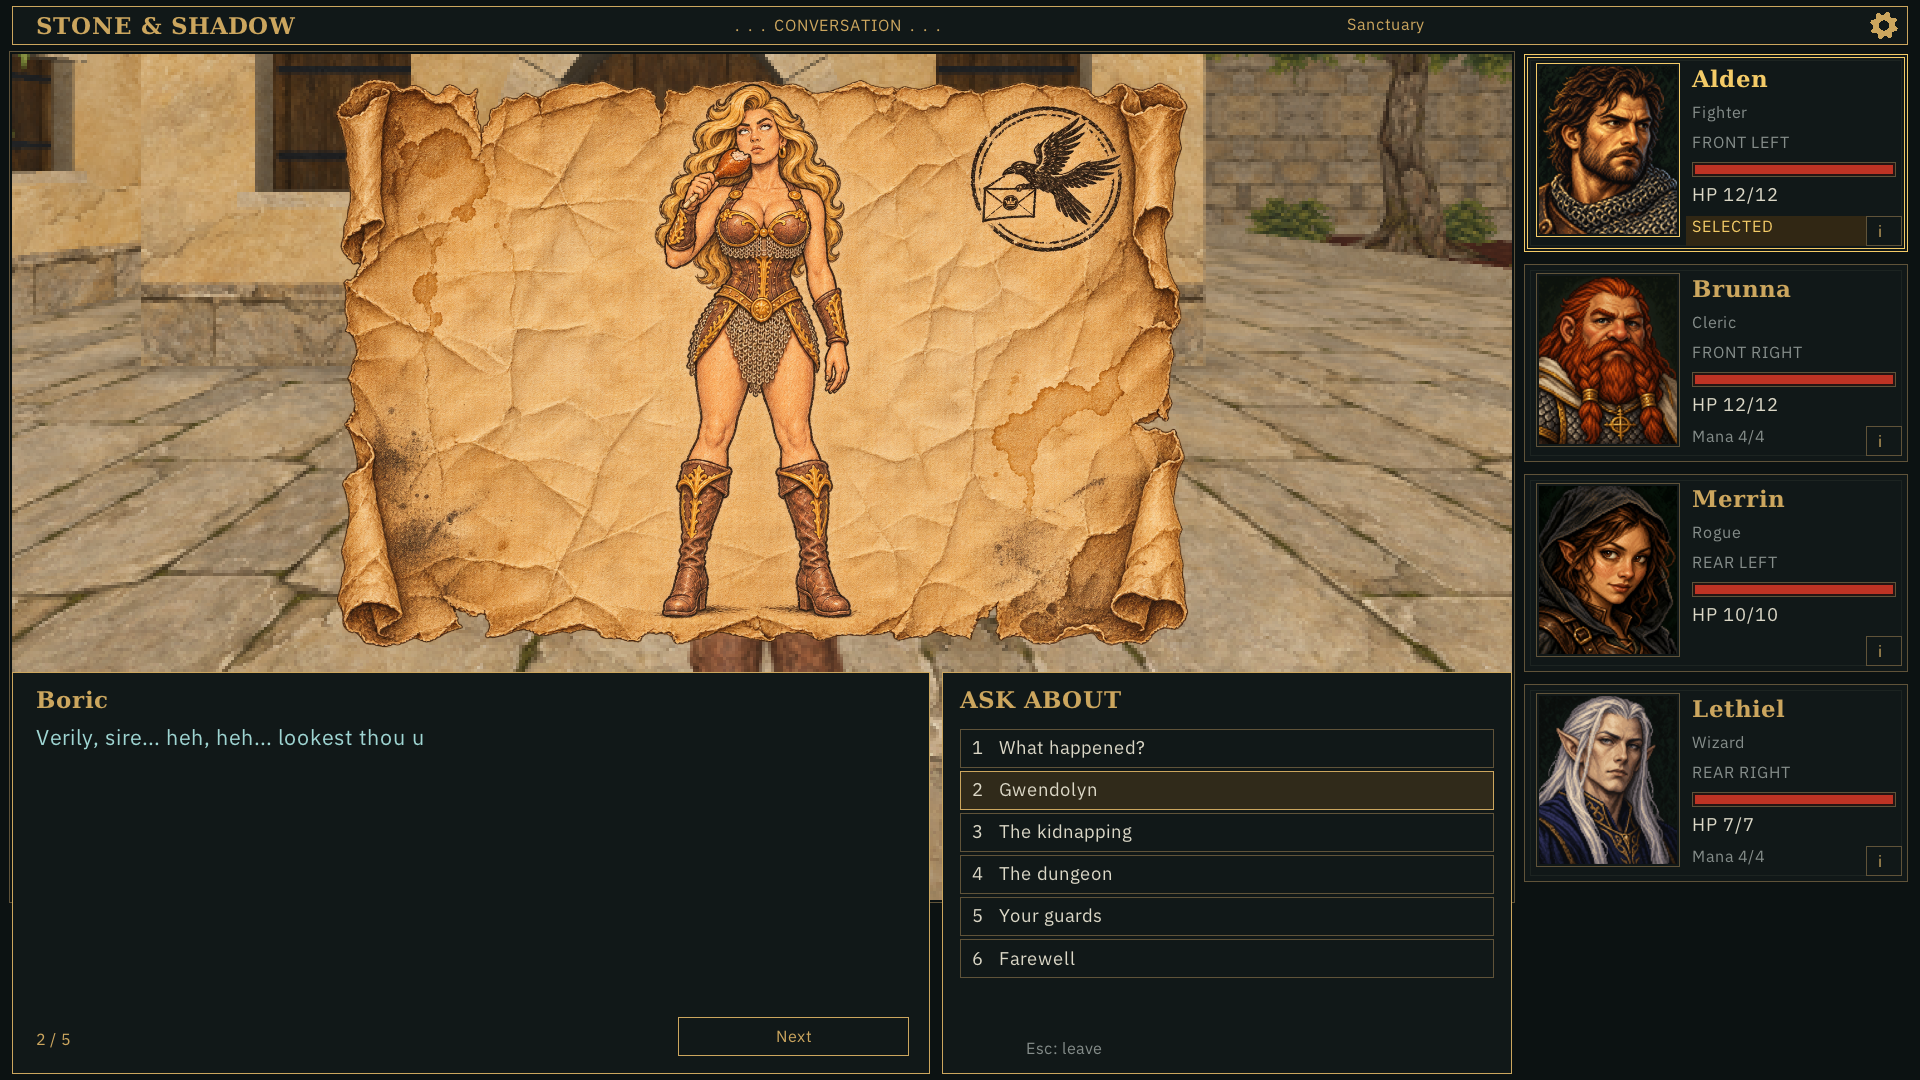
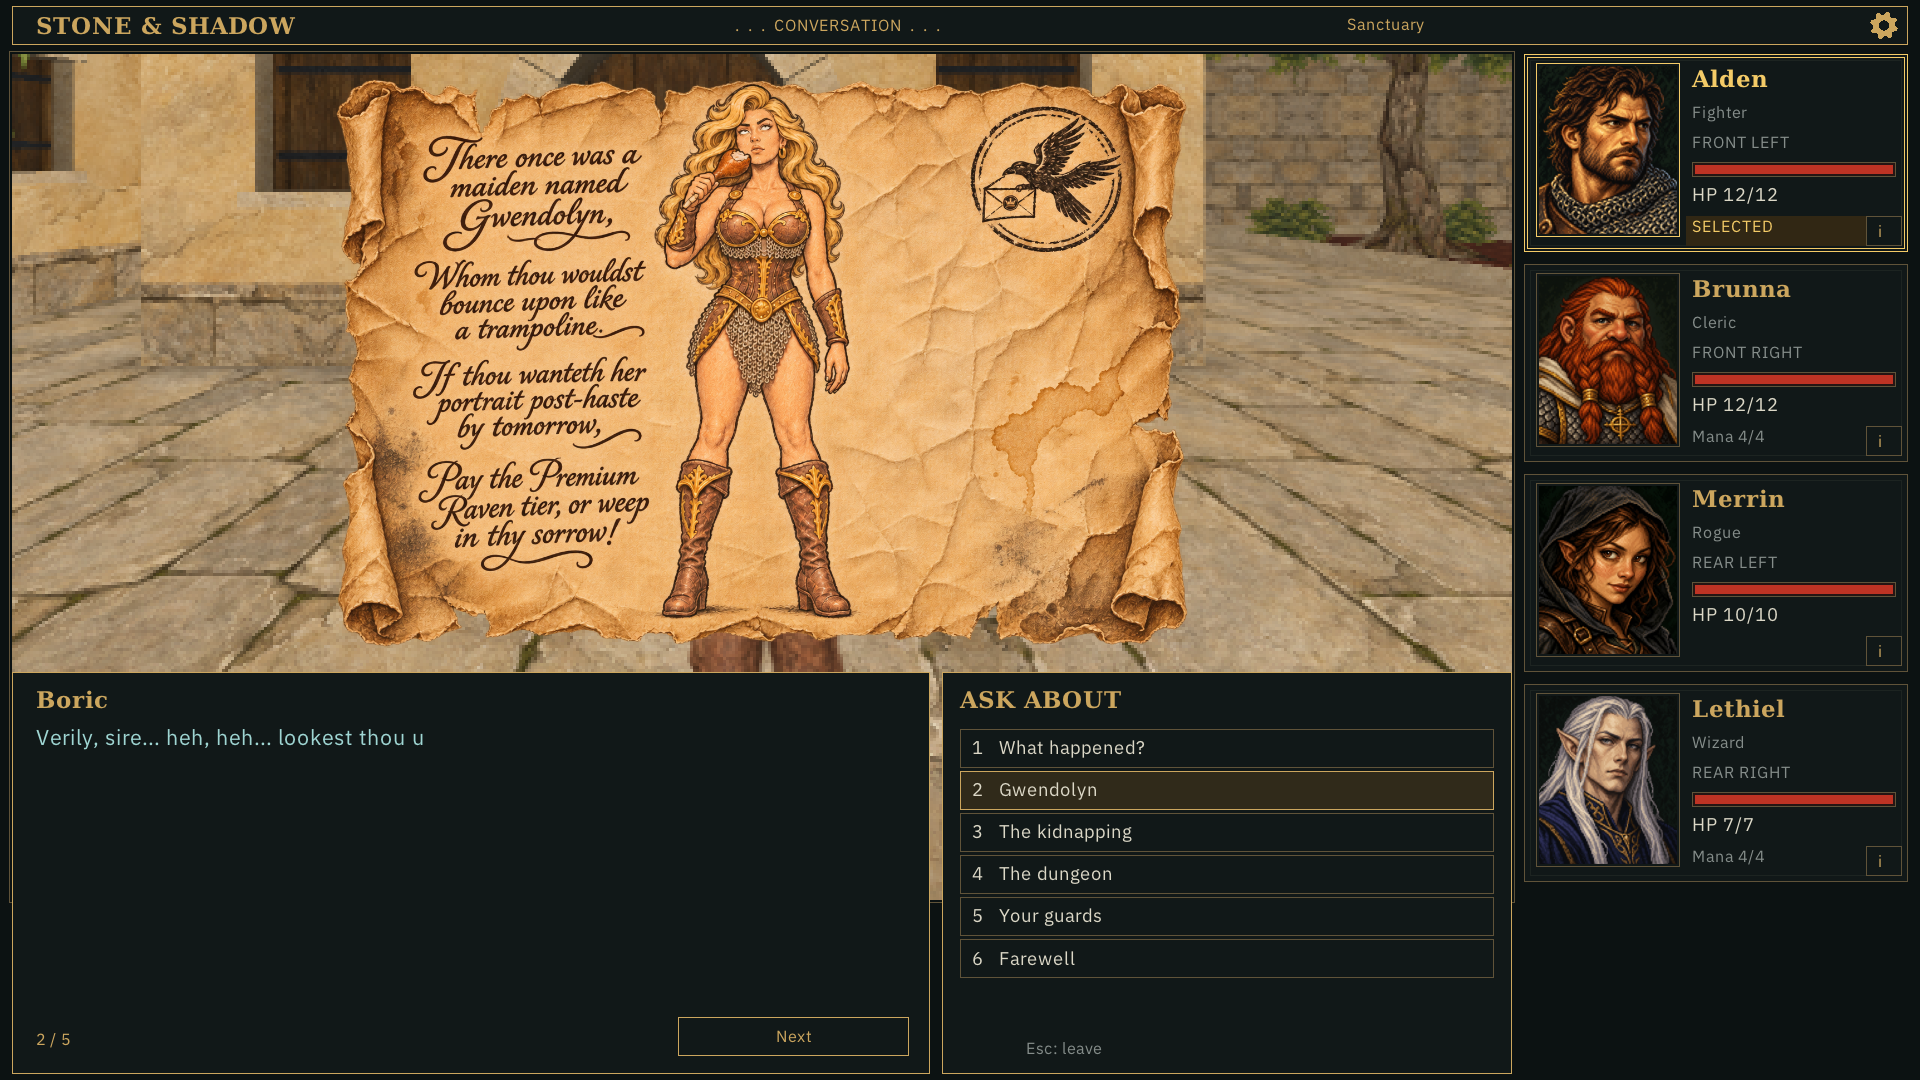
dialogue

diff --git a/docs/dialogue_design.md b/docs/dialogue_design.md
@@ -572,3 +572,34 @@ successful run uses the current 700 ms overlay delay and 300/400 ms guard pans.
 Source/package YAML match and diff whitespace checks pass. Unchanged audio, GPU
 lifecycle suites and broader configuration matrix were not rerun. Disposable
 captures and logs were cleaned after evidence promotion; no diagnostics retained.
+
+### Parchment verse artwork edit
+
+Implemented and visually checked (2026-11-06), pending user review: replaced the existing prepared overlay PNG with an
+imagegen edit adding the user's four-line verse in readable handwritten ink in
+the empty parchment area left of Gwendolyn. Preserve portrait identity, costume,
+pose, raven stamp, parchment silhouette and transparent alpha. Keep the existing
+asset path, YAML cues and renderer; this is a content-only change within the
+existing prepared-overlay design. Retain the exact edit prompt with provenance.
+Verify spelling visually and PNG dimensions/alpha, then update the packaged asset
+and selected in-game evidence if the hidden capture runner is available.
+
+Verification: built-in imagegen edit inspected for verbatim wording, readable
+calligraphy, portrait/stamp continuity and clean alpha. The PNG remains
+1536×1024 RGBA, with transparent exterior pixels, within the existing limits.
+`cmake --build --preset release --target blobber_assets -j2` passes at low priority;
+source and packaged PNGs match. The existing hidden production `dialogue-beats`
+scenario passes, including overlay delay/dismissal and resource release. Its scroll
+close-up was visually inspected at 1920×1080 and replaces the matching gallery
+image (still six images). No code changed; CPU suites were not rerun for this
+artwork-only edit. Disposable capture/log output cleaned after promotion; original
+generated output remains at the image tool's managed location.
+
+### Authored punctuation repair (2026-11-07)
+
+Replaced the single Unicode em dash in the Mayor kidnapping speech with ASCII
+` -- ` to satisfy the existing printable-ASCII dialogue contract. Wording and
+other authored edits are preserved. Both current dialogue YAML files parse and
+pass a printable-ASCII scan. The Debug `blobber_assets` target succeeds at two
+low-priority workers; packaged mayor YAML matches source. No engine changes or
+interactive Continue check; this is a content-only repair. Owned build log cleaned.

diff --git a/docs/screenshots/onlyscrolls/README.md b/docs/screenshots/onlyscrolls/README.md
@@ -13,6 +13,8 @@ scripted inputs without desktop input/focus automation.
 1. [Boric holds up the document](01-boric-holds-document.png): at 450 ms, the pan
    has settled and the hold-up animation is unobstructed.
 2. [Scroll close-up](02-boric-scroll.png): shows at 700 ms, after all four frames.
+   Refreshed for the handwritten verse edit; spelling and readability checked at
+   the game display size. Verse artwork remains pending user review.
 3. [First Next dismisses](03-boric-dismissed.png): same beat, revealed text and
    idle guard; close-up gone immediately.
 4. [Balin unobstructed](04-balin-unobstructed.png): portrait stays hidden through

diff --git a/assets/ui/dialogue/README.md b/assets/ui/dialogue/README.md
@@ -4,6 +4,9 @@
 briefing. Generated with built-in imagegen using the sole approved
 [Gwendolyn v3 sheet](../../../docs/mockups/gwendolyn-v1/README.md), depicting the
 adult character aged 25. The exact descriptive prompt is retained alongside it.
+A subsequent built-in imagegen edit adds the user-supplied verse in readable
+handwritten ink to the left of the portrait; its [exact edit prompt](onlyscrolls_overlay.verse.prompt.json)
+is retained separately from the original generation prompt.
 The PNG has genuine transparent alpha; its worn parchment, turkey leg and raven
 stamp are authored artwork, not runtime procedural graphics.
 
